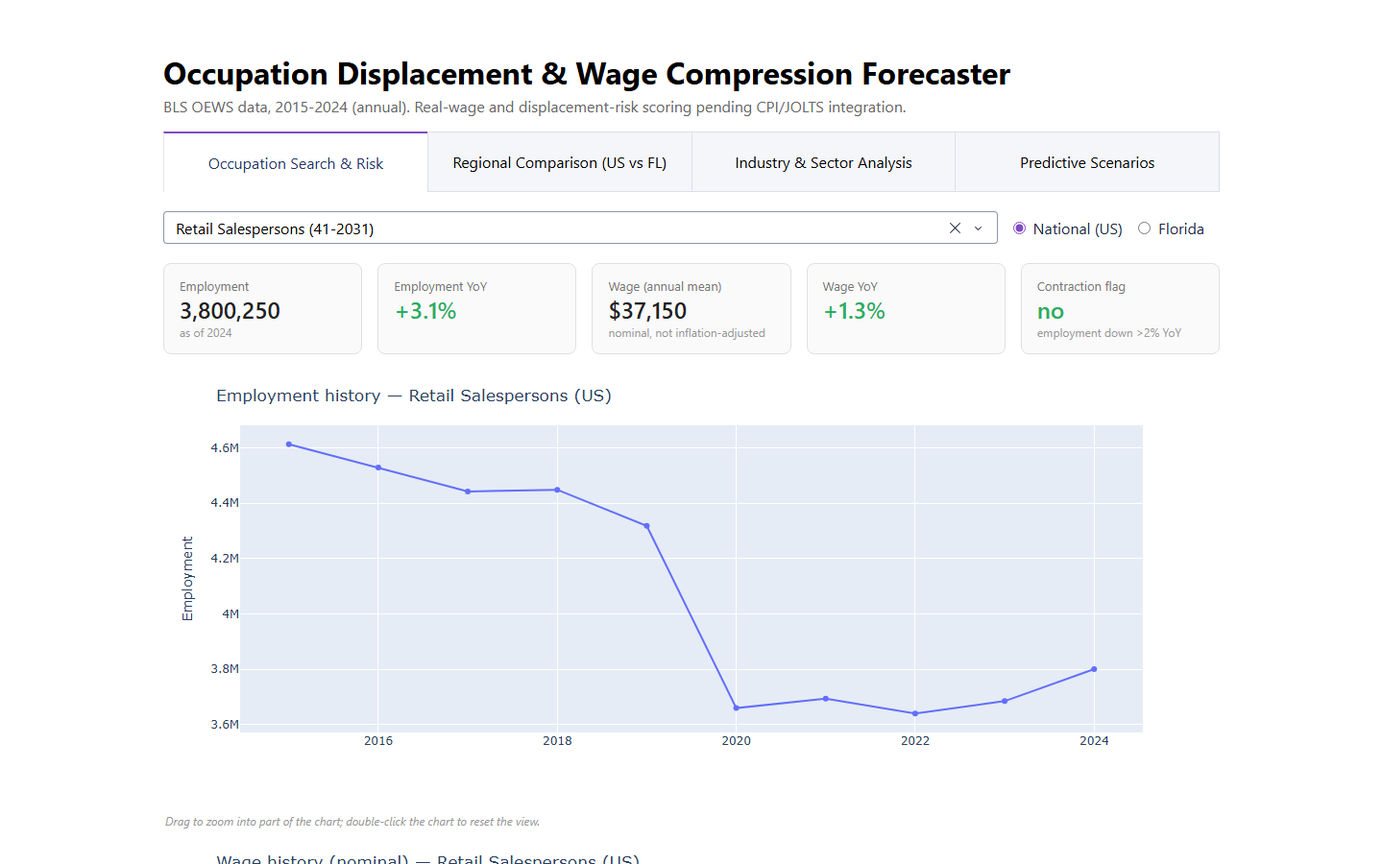
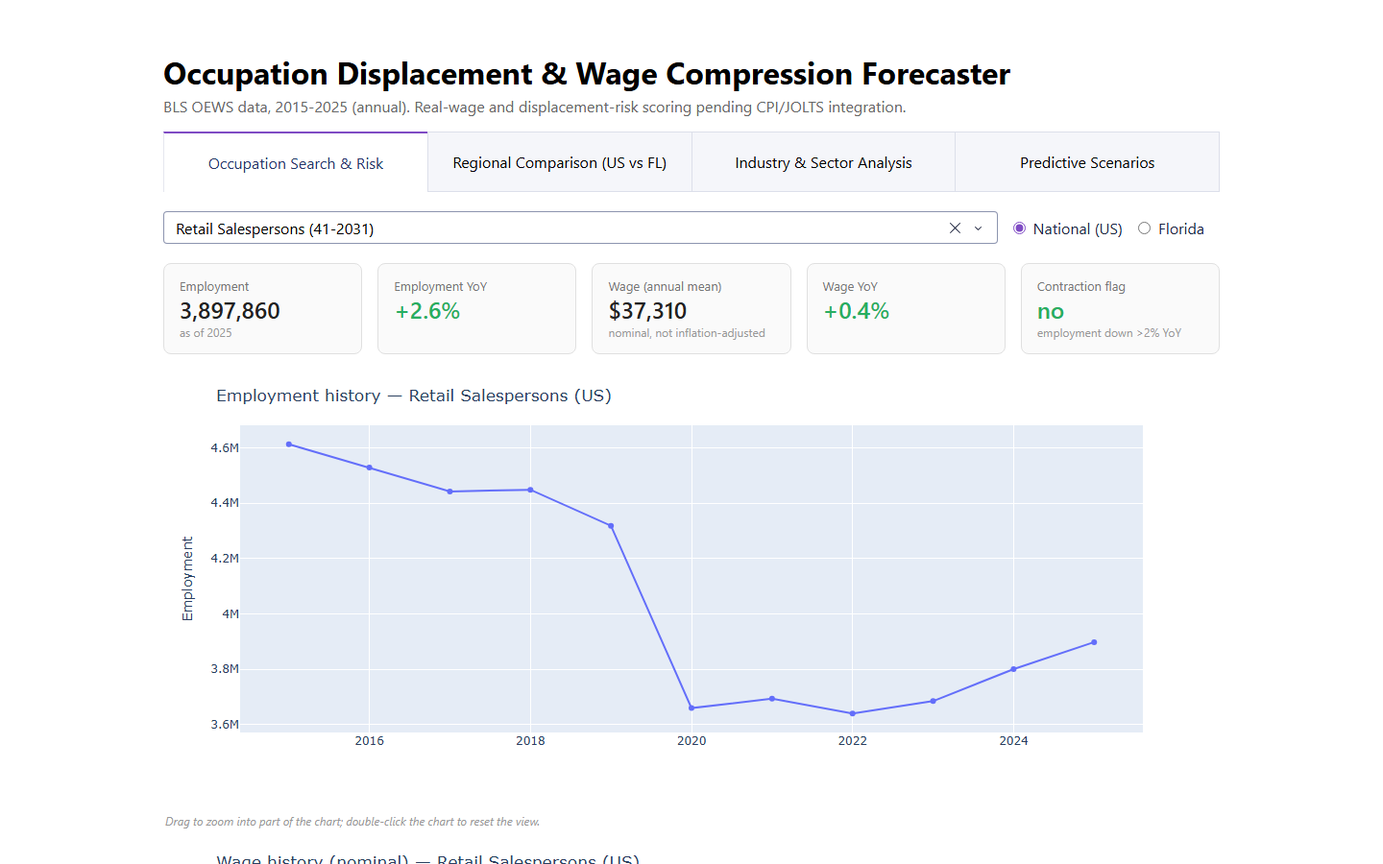
Correct public claims; document the BLS time-series caveat and real model results
README/METHODOLOGY/SCHEMA now describe the 2015-2025 panel, the validated model
next to its baseline (the old "test RMSE ~16,500" was presented without the
baseline that beat it), and "Florida" as the whole state rather than "South
Florida". Add BLS's own caution that OEWS is built for cross-sectional
estimates, not year-over-year comparison. Florida wage figures recomputed for
2025 (-7.7% head to head, -11.4% between medians). Refresh the screenshot.

fetch_jolts.py: BLS publishes state-level JOLTS for total nonfarm only, so stop
requesting Florida industry series that don't exist, and raise on an empty
series instead of treating "success with no data" as success.

diff --git a/data/fetch_jolts.py b/data/fetch_jolts.py
@@ -1,6 +1,7 @@
 """
-Fetch monthly JOLTS (Job Openings and Labor Turnover Survey) rates for
-Florida and the US nationally, by industry sector.
+Fetch monthly JOLTS (Job Openings and Labor Turnover Survey) rates: the US
+by industry sector, and Florida for total nonfarm only (BLS publishes no
+state-level industry detail).
 
 JOLTS has no occupation-level breakdown -- series are keyed by NAICS industry
 only (verified against https://download.bls.gov/pub/time.series/jt/jt.industry
@@ -47,6 +48,12 @@ def build_series_ids():
     ids = {}
     for industry_code, industry_name in JOLTS_INDUSTRY_SECTORS.items():
         for region, state_code in REGIONS.items():
+            # BLS publishes state-level JOLTS for total nonfarm only; industry
+            # detail exists nationally. Florida retail, leisure & hospitality,
+            # health care, construction and manufacturing were each queried and
+            # return "Series does not exist" (checked 2026-10-12).
+            if region != "US" and industry_code != "000000":
+                continue
             for elem_code, elem_name in JOLTS_DATA_ELEMENTS.items():
                 sid = f"JTS{industry_code}{state_code}0000000{elem_code}"
                 ids[sid] = {
@@ -80,6 +87,12 @@ def fetch_batch(series_ids, start_year=START_YEAR, end_year=END_YEAR):
     data = resp.json()
     if data["status"] not in ("REQUEST_SUCCEEDED", "REQUEST_SUCCEEDED_MESSAGES"):
         raise RuntimeError(f"BLS API error: {data.get('message')}")
+
+    # The API reports unknown series as "success" with an empty data list, so
+    # check for that explicitly instead of trusting the status field.
+    empty = [s["seriesID"] for s in data["Results"]["series"] if not s["data"]]
+    if empty:
+        raise RuntimeError(f"BLS returned no data for {len(empty)} series (first: {empty[0]}); messages: {data.get('message')}")
 
     cache_file.write_text(json.dumps(data))
     return data

diff --git a/docs/METHODOLOGY.md b/docs/METHODOLOGY.md
@@ -4,26 +4,44 @@
 
 The project was originally scoped assuming BLS OEWS could be pulled as a monthly time series (2015-present) via the BLS public API, and that JOLTS had occupation-level vacancy/separation rates. Both were verified false against the live API before any pipeline code was written:
 
-- **OEWS is annual, not monthly**, and BLS does not retain OEWS history under stable series IDs in its timeseries API — every series has `begin_year == end_year` (the current release only). The real historical panel comes from BLS's separate annual archive files (`oesm{YY}all.zip`, one per year, published at bls.gov/oes/special-requests/), which this project downloads and stacks itself (`data/fetch_oews.py`). Cadence is therefore annual, reference period May of each year.
-- **JOLTS has no occupation-level breakdown** — series are keyed by NAICS industry only. `data/fetch_jolts.py` is written to pull monthly job openings/hires/separations rates by industry sector for the US and Florida; the plan is to join them onto occupations via a primary-industry mapping as a *regional-tightness proxy*, not a true occupation-specific rate. **That pull has not been completed or merged yet** (see Known limitations).
-- OEWS column names and casing drift across release years (2015 uses `"occ code"` with a space and truncates the group label to `"detail "`; 2019 uses `occ_code`/`o_group`; 2024 uses `OCC_CODE`/`O_GROUP`; the `PRIM_STATE` column doesn't exist before ~2020). The parser normalizes headers and identifies Florida via `AREA_TYPE == 2 & AREA == 12` (the FIPS code), which is stable across every release year regardless of the naming drift.
+- **OEWS is annual, not monthly**, and BLS does not retain OEWS history under stable series IDs in its timeseries API — every series has `begin_year == end_year` (the current release only). The real historical panel comes from BLS's separate annual archive files (`oesm{YY}all.zip`, one per year, published at bls.gov/oes/special-requests/), which this project downloads and stacks itself (`data/fetch_oews.py`). Cadence is therefore annual, reference period May of each year. The panel covers the 2015–2025 releases.
+- **JOLTS has no occupation-level breakdown** — series are keyed by NAICS industry only, and BLS publishes industry detail for the US but, at the state level, only Florida *total nonfarm* (queried 2026-10-12: Florida retail, leisure & hospitality, health care, construction and manufacturing all return "Series does not exist"). `data/fetch_jolts.py` is written to pull the US industry series and Florida total nonfarm; the plan is to join the US industry rates onto occupations via a primary-industry mapping as a *regional-tightness proxy*, not a true occupation-specific rate. **That pull has not been completed or merged yet** (see Known limitations).
+- OEWS column names and casing drift across release years (2015 uses `"occ code"` with a space and truncates the group label to `"detail "`; 2019 uses `occ_code`/`o_group`; 2024 uses `OCC_CODE`/`O_GROUP`; the `PRIM_STATE` column doesn't exist before ~2020). The parser normalizes headers and identifies Florida via `AREA_TYPE == 2 & AREA == 12` (the FIPS code), which is stable across every release year regardless of the naming drift. "Florida" throughout this project means the state as a whole; no metro or county rows are used.
 
 ## Model
 
-**Target:** next-year `employment_level` per occupation x region ("12-months-ahead" from the original brief, adapted to annual cadence since OEWS doesn't publish monthly).
+**Target:** next-year `employment_level` per occupation × region ("12-months-ahead" from the original brief, adapted to annual cadence since OEWS doesn't publish monthly). The model predicts the **log growth ratio** `log(employment_next / employment_now)` and the level is reconstructed as `employment_now × exp(prediction)`. A level regression fails at the top end: employment spans 50 to ~4.6M, and with so few very large occupations a level model mispredicted the largest one (Retail Salespersons) by 40–60% even on rows it had trained on. Growth ratios share one scale across occupation sizes.
 
-**A real bug, found and fixed during development:** the first version trained LightGBM to predict the absolute employment level directly (even after a `log1p` transform to tame the scale). It looked fine in aggregate (MAPE ~13-20%) but was badly wrong for the handful of very largest occupations — verified it mispredicted Retail Salespersons (the single largest US occupation) by ~60%, *even on a row it was trained on*. Root cause: employment levels span three orders of magnitude (50 to 4.6M), and only 7 of 1,276 training rows exceed 2M employees (median ~14,000) — squared-error loss simply doesn't get enough signal at that extreme to fit it well.
+**Features** (8): current employment, mean and median annual wage, YoY change in employment and in wage, the contraction flag (employment down >2% YoY), region, and the first two digits of the SOC code. The 5-year CAGR features are in the feature table but deliberately *not* model inputs: they are empty for every occupation before 2020, so requiring them silently discards every training pair before 2020.
 
-**Fix:** predict `log(employment_next / employment_now)` — the growth ratio — instead of the absolute level, then reconstruct `employment_next = employment_now * exp(prediction)`. A 50-employee occupation's growth rate and a 3.8M-employee occupation's growth rate live on the same numeric scale, so the extreme tail no longer starves the model of comparable training examples. This dropped RMSE for 1M+-employee occupations from ~700K-940K to ~90K-180K, and fixed the Retail Salespersons case to within a few percent.
+**Observations:** each row is a pair — features in year *t*, employment in year *t+1* — for a (region, occupation) with both years present. Only true adjacent-year pairs are used. This gives 12,928 pairs (feature years 2016–2024, targets 2017–2025).
 
-**Train/val/test split** (annual analog of the original 2015-2021 / 2022 / 2023-2024 design):
-- train: feature year 2015-2020, target = employment in year+1
-- val: feature year 2021, target = employment in 2022
-- test: feature year 2022-2023, target = employment in year+1
+**Baselines.** A forecast is only worth something if it beats doing nothing, so every model figure is reported beside two baselines: *persistence* (next year = this year) and *median growth* (every occupation grows by the training period's median).
 
-**Hyperparameters:** `n_estimators=300, learning_rate=0.05, max_depth=6, num_leaves=32, min_data_in_leaf=20, feature_fraction=0.75, bagging_fraction=0.9, bagging_freq=1`, with early stopping on the validation set.
+**Validation is walk-forward.** To forecast from year *T*, a model may train only on pairs whose target was already known by *T* (features from years ≤ *T*−1).
+- **Inner folds** (features 2020, 2021, 2022, 2023) pick the hyperparameters: a 36-point grid over objective (L2, Huber, L1), number of trees, leaves and minimum leaf size, scored by mean median-error over the four folds. The winner is an L1 (median) objective, 75 trees, 31 leaves, `min_data_in_leaf=100`, learning rate 0.05. The grid is flat — the five best configurations differ by 0.06 points of median error (7.67–7.73) — so the exact choice shouldn't be over-read.
+- **Holdout** (features 2024 → the 2025 release): evaluated once, after the choices were fixed. The model for it is trained only on pairs through 2023→2024.
+- The **shipped** model is then refit on all 12,928 pairs, so it has no holdout of its own; its accuracy is the walk-forward estimate above. The dashboard forecasts 2026 from 2025 features.
 
-**Test-set results** (current build, OEWS-only features): RMSE ≈ 16,500, MAPE ≈ 12.1%, median absolute % error ≈ 7.4%, RMSE for 1M+-employee occupations ≈ 91,500. The original spec's target of <50,000 RMSE for 1M+ occupations isn't hit yet — that target assumed a richer feature set (JOLTS vacancy rates, job-posting volume, wage compression flags) that isn't wired in yet; see Limitations.
+**Results** (all errors are on next-year employment *level*; "closer" = share of rows where the model's error is smaller than persistence's):
+
+| Features → target | n | Model: RMSE / median error | Persistence: RMSE / median error | Closer than persistence |
+|---|---|---|---|---|
+| 2020 → 2021 | 1,398 | 27,037 / 9.5% | 26,558 / 9.9% | 54% |
+| 2021 → 2022 | 1,398 | 21,856 / 8.7% | 24,328 / 8.2% | 46% |
+| 2022 → 2023 | 1,524 | 11,517 / 6.2% | 15,853 / 6.9% | 53% |
+| 2023 → 2024 | 1,511 | 10,768 / 6.3% | 13,769 / 6.9% | 56% |
+| **Inner-fold mean** | | **17,794 / 7.7%** | 20,127 / 8.0% | |
+| **Holdout 2024 → 2025** | 1,503 | **11,067 / 6.1%** | 13,370 / 6.4% | 54% |
+
+On the holdout, MAPE is 13.3% vs. 13.6%, and for the 33 occupations with 1M+ employees RMSE is 62,216 vs. 77,355. Predicted and actual growth are only weakly related: rank correlation 0.21 across all holdout rows and 0.29 across the 854 occupations with 10,000+ employees.
+
+**How to read this.** The model is slightly better than assuming no change — it wins on RMSE in three of the four inner folds and on median error in three of the four (both in 2022 and 2023, and on the holdout) — but the margin is small and not statistically clear-cut: bootstrapping the holdout rows gives a 95% interval of −0.6 to +0.0 points for the difference in median error and 0.63 to 1.20 for the ratio of RMSEs (a ratio of 1 is a tie). The RMSE gain comes mostly from a few large occupations. It lost on median error in the 2021 fold (features 2021 → target 2022, when median occupation growth was +4.3% after −0.9% the year before) and on RMSE in the 2020 fold. This is a modest signal, not a precise predictor. Share of total gain by feature: SOC major group 25%, employment change YoY 23%, employment level 19%, median wage 10%, wage change YoY 10%, mean wage 8%, region 4%, contraction flag 1% (gain share describes how the trees split, not causal importance).
+
+**Model history.** The model has been through two failed versions, both fixed:
+1. *Level regression* (`log1p(employment_next)`). Fine in aggregate but wrong on the largest occupations: only 7 of 1,276 training rows exceeded 2M employees, and Retail Salespersons was mispredicted by ~60%.
+2. *Growth-ratio target, fixed 2015–2020 split.* This fixed the large-occupation problem, but the 5-year-CAGR features were empty before 2020, so after rows with missing features were dropped it trained on a **single** year (2020 → 2021, 1,276 rows) and early stopping on 2021 kept a single tree. On the 2022–23 test years it lost to persistence (RMSE 16,521 vs. 11,233) and gave nearly identical forecasts for every occupation. Its published error numbers had never been compared to a baseline.
+3. *Current version.* All usable years, walk-forward validation, baselines reported alongside, and an untouched holdout.
 
 ## Displacement risk scoring
 
@@ -34,24 +52,26 @@ risk = 0.4*(contraction relative to national avg) + 0.3*(wage compression)
      + 0.2*(low hiring demand) + 0.1*(high separation rate)
 ```
 
-70% of that weight (wage compression needs CPI; hiring demand needs job-posting volume, which this build doesn't collect; separation rate needs JOLTS) isn't available yet. The Predictive Scenarios tab uses a simplified three-tier `LOW/MODERATE/HIGH` threshold on forecast growth rate alone as a placeholder, clearly labeled as such in the UI.
+70% of that weight (wage compression needs CPI; hiring demand needs job-posting volume, which this build doesn't collect; separation rate needs JOLTS) isn't available yet. The Predictive Scenarios tab uses a simplified three-tier `LOW/MODERATE/HIGH` threshold on forecast growth alone (below −2% = MODERATE, below −10% = HIGH), clearly labeled as such in the UI. The thresholds are arbitrary and unvalidated. Applied to the shipped model's forecasts from 2025 features, 1,323 of 1,550 forecastable occupation-region rows come out LOW, 227 MODERATE and none HIGH.
 
 ## Known limitations
 
 - **Annual, not monthly** — trend charts and forecasts move once a year, not continuously.
-- **Small-occupation noise** — occupations with employment in the tens/hundreds show large YoY % swings (OEWS sampling error dominates at that scale). At the industry-sector cross-tab level this got bad enough to look like a data bug: occupations reported at n≈130 within a sector (e.g. "Self-Enrichment Teachers" under NAICS Manufacturing — real BLS data, likely in-house corporate trainers at a diversified manufacturer, but confusing out of context) were showing up in the sector tab's "top movers" tables purely from sampling noise. The Industry & Sector Analysis tab's ranked tables now apply a 500-employee floor (`SECTOR_RANKING_MIN_EMPLOYMENT` in `app/app.py`) before ranking; the scatter plot still shows every occupation (small ones are naturally de-emphasized by bubble size). The floor applies to **both** years being compared: a floor on current-year employment alone let a jump from a tiny base straight through (Construction Laborers in Accommodation & Food Services: 120 → 960 employees, +700%). The prior-year count is recovered exactly from the YoY percentage. Notebook 1's national occupation-level "top movers" tables don't have this floor and show the effect (e.g. "Timing Device Assemblers and Adjusters", 230 employees, -42.5%).
-- **Estimates carried forward unchanged** — for some smaller Florida occupations BLS publishes the identical employment figure in consecutive releases (13 of 744 comparable occupations in 2024, vs. 2 nationally). That's why Florida's median employment growth is exactly 0.0% in 2024. The Regional Comparison tab therefore shows the median *with 25th–75th percentile whiskers* rather than a median-only bar, which read as a broken chart; the whiskers are scoped to the IQR (not min/max) because a handful of small occupations swing from about -82% to +300% and stretched a box plot's axis until the IQR was unreadable.
+- **OEWS isn't designed for year-over-year comparison.** BLS's FAQ says the survey produces cross-sectional estimates and is "less useful for looking at changes over time", citing classification changes, methodology changes, and its three-year pooled sample design ([BLS](https://www.bls.gov/oes/oes_ques.htm)). Each release combines six semiannual panels collected over three years; the May 2025 estimates use May 2025, Nov 2024, May 2024, Nov 2023, May 2023 and Nov 2022, so consecutive releases share four of their six panels. YoY changes here are therefore changes in a moving average, and a forecast of "next year's employment" is a forecast of the next such estimate. Everything in this project that is a growth rate inherits this.
+- **Occupation codes change between releases.** US codes 2018 → 2019: 808 → 789, with 98 dropped and 79 new; 2020 → 2021: 30 dropped, 72 new. Only 700 US occupation codes exist in all 11 years. YoY is blank where the prior year is absent (matched on the actual prior year, not the previous row — an earlier positional `shift` silently spanned gaps for ~0.4% of occupation and ~1.8% of sector values).
+- **Small-occupation noise** — occupations with employment in the tens/hundreds show large YoY % swings (OEWS sampling error dominates at that scale; the standard deviation of next-year growth is about 61 points for occupations under 1,000 employees vs. 7 above 50,000). At the industry-sector cross-tab level this got bad enough to look like a data bug: in the 2024 release, occupations reported at n≈130 within a sector (e.g. "Self-Enrichment Teachers" under NAICS Manufacturing — real BLS data, likely in-house corporate trainers at a diversified manufacturer, but confusing out of context) were showing up in the sector tab's "top movers" tables purely from sampling noise. The Industry & Sector Analysis tab's ranked tables now apply a 500-employee floor (`SECTOR_RANKING_MIN_EMPLOYMENT` in `app/app.py`) before ranking; the scatter plot still shows every occupation (small ones are naturally de-emphasized by bubble size). The floor applies to **both** years being compared: a floor on current-year employment alone let a jump from a tiny base straight through (Construction Laborers in Accommodation & Food Services, 2024: 120 → 960 employees, +700%). The prior-year count is recovered exactly from the YoY percentage. Notebook 1's national occupation-level "top movers" tables have no floor and show the effect.
+- **Estimates carried forward unchanged** — for some smaller Florida occupations BLS publishes the identical employment figure in consecutive releases (2024 release: 13 of 744 comparable occupations vs. 2 nationally; 2025 release: 11 of 737 vs. 3 of 790). In 2024 that put Florida's median employment growth at exactly 0.0%, and it is −0.25% in 2025. The Regional Comparison tab therefore shows the median *with 25th–75th percentile whiskers* rather than a median-only bar, which read as a broken chart; the whiskers are scoped to the IQR (not min/max) because a handful of small occupations swing from about −82% to +300% and stretched a box plot's axis until the IQR was unreadable.
 - **JOLTS and CPI not integrated yet** — a multi-day BLS API outage in August 2026 delayed the pulls; the API is reachable again (CPI series `CUUR0000SA0` confirmed live on 2026-10-07), so the remaining work is running `data/fetch_jolts.py` and `data/fetch_cpi.py`, merging into the feature table, and retraining. Until then there are no vacancy/separation-rate features and no inflation-adjusted wages, so the "wage compression" half of the project's premise is still unimplemented — the dashboard shows nominal figures only and says so.
-- **JOLTS is industry-level only**, not occupation-specific, everywhere it will be used.
+- **JOLTS is industry-level only**, not occupation-specific, and state-level only for Florida total nonfarm, everywhere it will be used.
 - **No job-postings data** — the original brief's Indeed/LinkedIn scraping scope was deliberately deferred (cost/ToS considerations); skill-diversity and posting-volume features don't exist in this build.
 - **No fairness/equity audit yet** — the original brief's approach of inferring gender/age from job-posting text patterns is methodologically weak and there's no job-postings data source in this build anyway; needs a sounder approach before it's built.
 - **Regional wage premium finding**: Florida pays *less*, not more, than the national figure — contrary to the original brief's assumed +3-8% premium. Kept as a genuine finding, not corrected; see the next section for exactly what the numbers do and don't say.
 
 ## Florida vs. national wages
 
-Two different comparisons produce two different magnitudes, and the README/dashboard should be read with the distinction in mind (all figures: 2024 OEWS, nominal annual mean wage, not cost-of-living adjusted):
+Two different comparisons produce two different magnitudes, and the README/dashboard should be read with the distinction in mind (all figures: 2025 OEWS, nominal annual mean wage, not cost-of-living adjusted):
 
-- **Median across occupations** (what the Regional Comparison tab's wage chart shows): the median occupation's mean annual wage is $57,935 in Florida vs. $63,945 nationally, a **-9.4%** gap, over the 791 occupations present in both regions.
-- **Head-to-head, same occupation** (FL wage ÷ US wage, per occupation, 778 occupations with a wage in both): the median ratio is **-7.2%** (25th–75th percentile -13.5% to -2.5%), **84%** of occupations pay less in Florida, and weighting by Florida employment gives **-6.4%**.
+- **Median across occupations** (what the Regional Comparison tab's wage chart shows): the median occupation's mean annual wage is $58,730 in Florida vs. $66,290 nationally, a **−11.4%** gap, over the 790 occupations present in both regions.
+- **Head-to-head, same occupation** (FL wage ÷ US wage, per occupation, 777 occupations with a wage in both): the median ratio is **−7.7%** (25th–75th percentile −13.5% to −2.5%), **84%** of occupations pay less in Florida, and weighting by Florida employment gives **−6.5%**.
 
-The direction is robust either way; the ~7% head-to-head figure is the better estimate of "how much less does the same job pay in Florida," while the ~9% is the gap between two distribution medians, which is not the same thing as the median of the per-occupation gaps. Neither adjusts for cost of living, so neither says anything about purchasing power — that comparison would need a regional price index that isn't part of this build.
+The direction is robust either way; the ~8% head-to-head figure is the better estimate of "how much less does the same job pay in Florida," while the ~11% is the gap between two distribution medians, which is not the same thing as the median of the per-occupation gaps. Neither adjusts for cost of living, so neither says anything about purchasing power — that comparison would need a regional price index that isn't part of this build.

diff --git a/README.md b/README.md
@@ -6,20 +6,20 @@
 [![Python 3.9+](https://img.shields.io/badge/python-3.9+-blue.svg)](https://www.python.org/downloads/)
 [![Dash](https://img.shields.io/badge/dashboard-Plotly%20Dash-blue.svg)](https://dash.plotly.com/)
 
-A labor-market analytics pipeline forecasting occupation-level employment trends, built on real BLS data (not synthetic) — with a South Florida regional lens. **Status: in progress** — 4 of 5 dashboard tabs are built and deployed; see [Status & Limitations](#status--limitations) for exactly what's done vs. pending.
+A labor-market analytics pipeline for occupation-level employment and wages, built on real BLS data (not synthetic), comparing the US with Florida as a whole. **Status: in progress** — 4 of 5 dashboard tabs are built and deployed; see [Status & Limitations](#status--limitations) for exactly what's done vs. pending.
 
 **Live dashboard: [labor-market-displacement-forecaster.onrender.com](https://labor-market-displacement-forecaster.onrender.com/)** — hosted on Render's free tier, which spins the app down when idle, so the first load after a quiet period can take up to a minute.
 
 ## Overview
 
-Which jobs are shrinking, and which are quietly losing purchasing power even while nominal pay rises? This project pulls BLS Occupational Employment and Wage Statistics (OEWS) into a real 10-year annual panel (~800 occupations, national + Florida), trains a LightGBM model to forecast next-year employment, and ships an interactive dashboard for exploring the results — including a transparent, documented what-if scenario tool. (The "losing purchasing power" half is the planned next step: it needs CPI data that isn't integrated yet — see [Status & Limitations](#status--limitations).)
+Which jobs are shrinking, and which are quietly losing purchasing power even while nominal pay rises? This project pulls BLS Occupational Employment and Wage Statistics (OEWS) into an 11-year annual panel (~800 occupations, national + statewide Florida), trains a LightGBM model to forecast next-year employment, and ships an interactive dashboard for exploring the results — including a transparent, documented what-if scenario tool. (The "losing purchasing power" half is the planned next step: it needs CPI data that isn't integrated yet — see [Status & Limitations](#status--limitations).)
 
-**Real, verified results:**
-- 📊 **10-year OEWS panel**: 2015–2024, 789–831 occupations per year (15,967 occupation × region × year rows), national + Florida
-- 🤖 **Employment forecaster**: LightGBM, test RMSE ≈ 16,500, MAPE ≈ 12.1%, median error ≈ 7.4%
-- 🐛 **A real bug found and fixed mid-build**: an earlier model version mispredicted the largest US occupation by ~60%, even on training data — see [docs/METHODOLOGY.md](docs/METHODOLOGY.md#model) for the root cause and fix (predicting growth rate instead of absolute employment level)
-- 🗺 **Unexpected finding**: Florida pays less than the national figure, not more. Compared head-to-head on the same occupation, Florida's median mean annual wage is ~7% lower (84% of 778 comparable occupations pay less in FL); the Regional Comparison tab's ~9% is the gap between the two *medians across occupations*. All nominal — not cost-of-living adjusted — contrary to the +3–8% regional premium the original project brief assumed. See [docs/METHODOLOGY.md](docs/METHODOLOGY.md#florida-vs-national-wages).
-- 🏭 **Industry-sector breakdown**: 20 NAICS sectors (~430 occupations per sector on average), 83,577 occupation × sector × year rows, national level
+**Results:**
+- 📊 **11-year OEWS panel**: 2015–2025, 789–831 occupations per year (17,587 occupation × region × year rows), national + statewide Florida
+- 🤖 **Employment forecaster, validated against "assume no change"**: LightGBM, walk-forward validated. On the 2025 OEWS release, which it never saw, the median error is 6.1% vs. 6.4% for simply assuming next year equals this year, and it is closer on 54% of 1,503 occupation-region rows. The edge is small and statistically unclear (95% bootstrap interval for the difference in median error: −0.6 to +0.0 points; in the four earlier walk-forward folds it was ahead on RMSE in three and on median error in three). Every model number in this repo is reported next to that baseline. See [docs/METHODOLOGY.md](docs/METHODOLOGY.md#model).
+- 🐛 **Two earlier model versions failed and were fixed**: a level regression mispredicted the largest US occupation by ~60%, and its replacement trained on a single year (a feature that is empty before 2020 silently dropped every earlier row) and lost to "no change". Details in the methodology doc.
+- 🗺 **Unexpected finding**: Florida pays less than the national figure for the same job, not more. Compared head-to-head on 777 occupations, Florida's mean annual wage is a median 7.7% lower, and 84% of those occupations pay less in Florida (6.5% lower when weighted by Florida employment). The Regional Comparison tab's −11.4% is a different quantity: the gap between the two *medians across occupations*. All nominal — not cost-of-living adjusted — contrary to the +3–8% regional premium the original project brief assumed. See [docs/METHODOLOGY.md](docs/METHODOLOGY.md#florida-vs-national-wages).
+- 🏭 **Industry-sector breakdown**: 20 NAICS sectors (143–641 occupations each in 2025, ~426 on average), 92,104 occupation × sector × year rows, national level
 
 ## Quick Start
 
@@ -36,7 +36,7 @@ The processed datasets and trained model are committed under `data/processed/`, 
 ### Rebuild everything from raw BLS data (optional)
 
 ```bash
-# Download BLS OEWS annual archives, 2015-2024 (~800MB total, ~30-40 min the first time)
+# Download BLS OEWS annual archives, 2015-2025 (~900MB total, ~30-40 min the first time)
 python data/fetch_oews.py
 python data/fetch_oews_industry.py
 
@@ -44,7 +44,8 @@ python data/fetch_oews_industry.py
 python src/build_features.py
 python src/build_industry_features.py
 
-# Retrain the employment forecaster
+# Walk-forward validation, baseline comparison, and refit of the forecaster
+# (writes the model and data/processed/model_metrics.json)
 python src/train_model.py
 ```
 
@@ -53,7 +54,7 @@ The scripts self-identify to BLS with a `User-Agent` (BLS serves an "Access Deni
 ### JOLTS and CPI (written, not yet integrated)
 
 ```bash
-python data/fetch_jolts.py   # industry-level vacancy/hires/separations rates
+python data/fetch_jolts.py   # US vacancy/hires/separations rates by industry, plus Florida total nonfarm
 python data/fetch_cpi.py     # CPI-U, for inflation-adjusted wage compression
 ```
 
@@ -66,7 +67,7 @@ pip install -r requirements-dev.txt   # adds jupyter + matplotlib on top of requ
 jupyter notebook notebooks/
 ```
 - `01_eda_occupation_panel.ipynb` — employment/wage distributions, regional comparison, growth trends
-- `02_model_evaluation.ipynb` — model metrics, feature importance, the Retail Salespersons bug case study
+- `02_model_evaluation.ipynb` — walk-forward results against the no-change baseline, the 2025 holdout, feature importance, example occupations
 
 ## Dashboard
 
@@ -77,7 +78,7 @@ jupyter notebook notebooks/
 | **Occupation Search & Risk** | Search any occupation, see employment/wage history, YoY trend, and a contraction flag (employment down >2% YoY), US or FL. A full displacement *risk score* is not implemented yet — see [Status & Limitations](#status--limitations). |
 | **Regional Comparison** | US vs. Florida: employment growth (median with 25th–75th percentile whiskers, since a median-only bar hid how much occupations actually vary), median wage level, and the share of occupations with wage decline or contraction |
 | **Industry & Sector Analysis** | Pick a NAICS sector, see a wage-growth-vs-employment-change scatter and top movers. Occupations under 500 employees within a sector — in either year compared — are excluded from the ranked tables (sampling noise), though still shown in the scatter |
-| **Predictive Scenarios** | GDP contraction / automation / immigration sliders applied to the trained model's forecast, with documented linear-assumption transparency (no macro elasticity model exists here — treat as directional) |
+| **Predictive Scenarios** | The model's baseline forecast (with a note on how well it validated) plus GDP contraction / automation / immigration sliders. The sliders are documented linear assumptions, not fitted elasticities — treat as directional |
 
 A 5th tab (Fairness & Equity audit) is **not built** — the original plan's approach of inferring gender/age from job-posting text is methodologically weak, and this build has no job-postings data source at all. Needs a sounder methodology before implementation.
 
@@ -123,17 +124,18 @@ See [docs/SCHEMA.md](docs/SCHEMA.md) for exact column definitions and [docs/METH
 ## Data Sources
 
 - **BLS OEWS** (annual employment/wage by occupation): downloaded directly as archive files, not via the timeseries API — BLS doesn't retain multi-year OEWS history under stable series IDs. See [docs/METHODOLOGY.md](docs/METHODOLOGY.md) for how this was verified.
-- **BLS JOLTS** (monthly vacancy/hires/separations, industry-level only — not occupation-level): not yet pulled or integrated.
+- **BLS JOLTS** (monthly vacancy/hires/separations, industry-level only — not occupation-level; state-level only for Florida total nonfarm): not yet pulled or integrated.
 - **BLS CPI-U** (for real/inflation-adjusted wages): not yet pulled or integrated. The series ID the script uses (`CUUR0000SA0`) was confirmed to return data from BLS's live API on 2026-10-07.
 
 Full citations and API documentation links: [docs/CITATIONS.md](docs/CITATIONS.md).
 
 ## Status & Limitations
 
-- **Done**: OEWS annual panel + engineered features, industry-sector breakdown, LightGBM employment forecaster (bug-fixed), dashboard Tabs 1–4 deployed on Render, 2 executed EDA/evaluation notebooks.
+- **Done**: OEWS annual panel (2015–2025) + engineered features, industry-sector breakdown, LightGBM employment forecaster with walk-forward validation against a no-change baseline, dashboard Tabs 1–4 deployed on Render, 2 executed EDA/evaluation notebooks.
 - **Next — JOLTS and CPI integration**: a multi-day BLS API outage in August 2026 delayed these pulls; the API is reachable again, so what remains is running the fetch scripts, merging the results into the feature table, and retraining. That unlocks the real-wage compression flag and a fuller displacement risk score (today only a simplified growth-rate-based low/moderate/high threshold exists, used by the Predictive Scenarios tab).
 - **Not started**: Fairness/equity audit (Tab 5) — needs a methodology decision, not just more data.
-- **Known data-quality caveats**: occupations with employment in the tens/hundreds show large YoY % swings from OEWS sampling variance — the sector tab filters these out of its rankings, but the notebook's top-movers tables don't. Some BLS estimates are carried forward unchanged between releases (it's why Florida's median employment growth lands on exactly 0.0%). Details in [docs/METHODOLOGY.md](docs/METHODOLOGY.md#known-limitations).
+- **OEWS is not built for year-over-year comparison.** BLS's own FAQ says the survey is designed for cross-sectional estimates and is "less useful for looking at changes over time", citing classification changes and its three-year pooled sample ([BLS: Can OEWS data be used to look at changes over time?](https://www.bls.gov/oes/oes_ques.htm)). Every growth rate on the dashboard and every forecast inherits that: the numbers are best read as directional, and consecutive releases share most of their underlying survey panels.
+- **Known data-quality caveats**: occupations with employment in the tens/hundreds show large YoY % swings from OEWS sampling variance — the sector tab filters these out of its rankings, but the notebook's top-movers tables don't. Some BLS estimates are carried forward unchanged between releases (in the 2024 release it pushed Florida's median employment growth to exactly 0.0%). Details in [docs/METHODOLOGY.md](docs/METHODOLOGY.md#known-limitations).
 - **Cadence**: annual, not monthly (OEWS is a point-in-time annual survey; see methodology doc for why the original monthly-cadence plan didn't match reality).
 
 ## License

diff --git a/docs/SCHEMA.md b/docs/SCHEMA.md
@@ -10,8 +10,8 @@ One row per occupation x region x year. Annual cadence (OEWS reference period is
 
 | Column | Type | Description |
 |---|---|---|
-| `year` | int | Release year, 2015-2024 |
-| `region` | str | `US` (national) or `FL` (Florida state-level) |
+| `year` | int | Release year, 2015-2025 |
+| `region` | str | `US` (national) or `FL` (Florida as a whole; no metro or county rows) |
 | `occ_code` | str | 6-digit SOC occupation code, e.g. `29-1141` |
 | `occ_title` | str | Occupation name |
 | `employment_level` | float | Estimated employment count |
@@ -22,9 +22,9 @@ One row per occupation x region x year. Annual cadence (OEWS reference period is
 | `wage_annual_pct10` | float | 10th percentile annual wage ($) |
 | `wage_annual_pct90` | float | 90th percentile annual wage ($) |
 
-Source: `data/fetch_oews.py`, parsing BLS's annual `oesm{YY}all.zip` archives. Rows are filtered to `O_GROUP == "detailed"` (not aggregated major/minor/broad groups) and `NAICS == "000000"` (cross-industry total, not a specific sector). 15,967 rows; 789–831 distinct occupation codes per year.
+Source: `data/fetch_oews.py`, parsing BLS's annual `oesm{YY}all.zip` archives. Rows are filtered to `O_GROUP == "detailed"` (not aggregated major/minor/broad groups) and `NAICS == "000000"` (cross-industry total, not a specific sector). 17,587 rows; 789–831 distinct occupation codes per year.
 
-**Nulls:** BLS marks suppressed or out-of-range estimates with `*` / `#` strings, which the parser coerces to null. Share of nulls per column (all rows): `employment_level` 1.6%, `wage_annual_mean` 1.0%, `wage_annual_median` 2.2%, `wage_hourly_mean` 7.7%, `wage_hourly_median` 8.8%, `wage_annual_pct90` 5.2% (`wage_annual_pct10` 1.0%). The missingness is not random: hourly columns are null mainly for occupations BLS reports as annual salary only (postsecondary teachers, legislators, school administrators — rows with a null `wage_hourly_mean` have a median annual mean wage of $77,890 vs. $49,990 for the rest), and `wage_annual_pct90` is null for the very top earners (median annual mean wage $172,320 vs. $50,430; e.g. Cardiologists, Pediatric Surgeons). Analyses on those columns silently drop higher-paid occupations. Growth features are also null wherever the occupation code is absent from the comparison year (SOC code revisions mean not every occupation has a continuous 10-year history).
+**Nulls:** BLS marks suppressed or out-of-range estimates with `*` / `#` strings, which the parser coerces to null. Share of nulls per column (all rows): `employment_level` 1.6%, `wage_annual_mean` 1.0%, `wage_annual_median` 2.1%, `wage_hourly_mean` 7.7%, `wage_hourly_median` 8.7%, `wage_annual_pct90` 4.8% (`wage_annual_pct10` 1.0%). The missingness is not random: hourly columns are null mainly for occupations BLS reports as annual salary only (postsecondary teachers, legislators, school administrators — rows with a null `wage_hourly_mean` have a median annual mean wage of $78,120 vs. $50,970 for the rest), and `wage_annual_pct90` is null for the very top earners (median annual mean wage $172,320 vs. $51,560; e.g. Cardiologists, Pediatric Surgeons). Analyses on those columns silently drop higher-paid occupations. Growth features are also null wherever the occupation code is absent from the comparison year (SOC code revisions mean not every occupation has a continuous 11-year history).
 
 ## `oews_occupation_features.csv`
 
@@ -38,6 +38,8 @@ Source: `data/fetch_oews.py`, parsing BLS's annual `oesm{YY}all.zip` archives. R
 | `wage_growth_5yr_cagr` | float | 5-year compound annual growth rate, wage |
 | `contraction_flag_12mo` | Int64 (nullable) | 1 if `employment_change_yoy_pct < -2%`, else 0; null if no prior-year data |
 
+The lags are matched on the actual prior year (year − 1, year − 5), not the previous row, so an occupation missing a year gets a blank rather than a change that silently spans several years.
+
 ## `oews_industry_panel.csv` / `oews_industry_features.csv`
 
 Same structure as above, but national-level only, broken out by industry sector instead of collapsed to cross-industry. Adds:
@@ -47,11 +49,15 @@ Same structure as above, but national-level only, broken out by industry sector 
 | `naics` | str | 2-digit/range NAICS sector code, e.g. `62`, `44-45` |
 | `naics_title` | str | Sector name, e.g. "Health Care and Social Assistance" |
 
-83,577 rows: 20 sectors × 10 years, with 151–656 detailed occupations present per sector (about 430 on average) — most occupations don't appear in most sectors, so this is far smaller than 20 × ~800 × 10. About 8,200–8,600 rows per year. Sector titles aren't stable across releases: NAICS `99` (government) carries four different `naics_title` strings across the 10 years, so group on `naics`, not `naics_title` (the dashboard uses the most recent year's title). State-level industry breakdowns are excluded — OEWS suppresses too many state x sector x detailed-occupation cells to build a reliable Florida-specific version.
+92,104 rows: 20 sectors × 11 years, with 143–641 detailed occupations present per sector in 2025 (about 426 on average) — most occupations don't appear in most sectors, so this is far smaller than 20 × ~800 × 10. About 8,200–8,600 rows per year (8,527 in 2025). Sector titles aren't stable across releases: NAICS `99` (government) carries four different `naics_title` strings across the 11 years, so group on `naics`, not `naics_title` (the dashboard uses the most recent year's title). State-level industry breakdowns are excluded — OEWS suppresses too many state x sector x detailed-occupation cells to build a reliable Florida-specific version.
 
 ## `employment_forecast_model.txt`
 
-A saved LightGBM booster (text format). **Predicts log employment growth ratio, not absolute employment level** — see [METHODOLOGY.md](METHODOLOGY.md#model) for why. Reconstruct the level forecast as `employment_level * exp(model.predict(features))`.
+A saved LightGBM booster (text format), 75 trees. **Predicts log employment growth ratio, not absolute employment level** — see [METHODOLOGY.md](METHODOLOGY.md#model) for why. Reconstruct the level forecast as `employment_level * exp(model.predict(features))`. Refit on every available pair (feature years 2016–2024), so it is applied to 2025 features to forecast 2026.
 
 Feature columns (order matters for the saved categorical encoding):
-`employment_level, wage_annual_mean, wage_annual_median, employment_change_yoy_pct, wage_growth_yoy_pct, employment_change_5yr_cagr, wage_growth_5yr_cagr, contraction_flag_12mo, region, occ_major_group` (the last two are categorical; `occ_major_group` is `occ_code[:2]`).
+`employment_level, wage_annual_mean, wage_annual_median, employment_change_yoy_pct, wage_growth_yoy_pct, contraction_flag_12mo, region, occ_major_group` (the last two are categorical; `occ_major_group` is `occ_code[:2]`; `contraction_flag_12mo` is passed as a float). The 5-year CAGR columns exist in the feature table but are not model inputs.
+
+## `model_metrics.json`
+
+Written by `src/train_model.py`: the selected hyperparameters, the top of the hyperparameter grid, per-fold walk-forward results for the model and both baselines (persistence and median growth), the 2024 → 2025 holdout results with bootstrap intervals, and each feature's share of total gain. The dashboard's accuracy note on the Predictive Scenarios tab is generated from this file.
